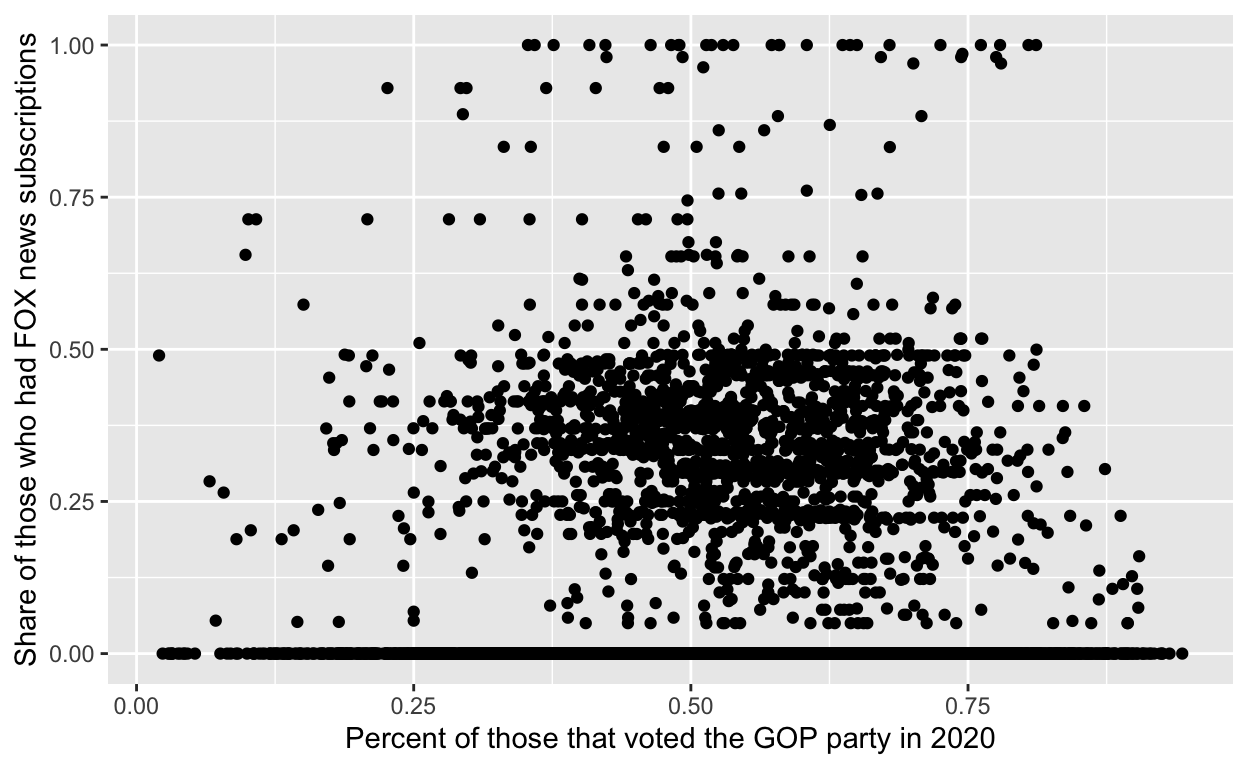
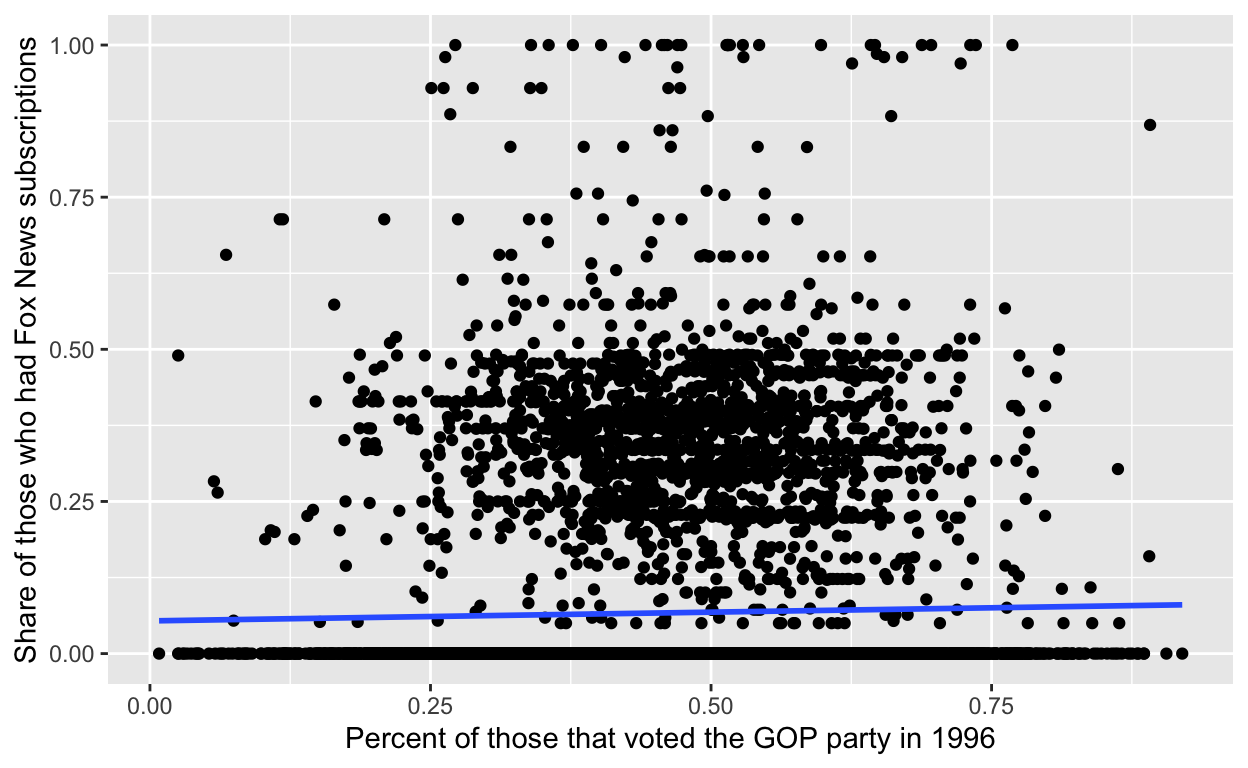
dfghjk

diff --git a/index.html b/index.html
@@ -1543,33 +1543,39 @@ code span.wa { color: #5e5e5e; font-style: italic; } /* Warning */
 </div>
 
 <div class="d-article">
-<h2 id="project-thoughts">Project thoughts</h2>
-<p>I am interested in exploring data related to how media coverage of the election changes the behavior of electorates.</p>
-<p>Have you ever wondered how national news coverage affects elections? I plan to examine how media coverage affects the electorate’s behavior in this study. I hypothesize that national news media coverage will likely substantially influence the electorate’s behavior. I affirm this because most citizens believe everything they get from news sources, and by believing the information, they are adopting the same political beliefs as the news source, ultimately shifting the election outcome. News sources can also push the political agenda by telling one side of a story, which electorates sympathize with and conform to the propaganda the sources are trying to push. However, this acutely insinuates that all news sources are bad, which is incredibly untrue. It can shine a light on candidates’ ideals or actions, changing how electorates view the candidate they support. The explanatory variable is whether the town got Fox News; which is under the column of subrf 2000. and the gopvoteshare columns are those who voted for the Republican political party. The data supports my hypothesis that media coverage affects the electorate’s behavior because it is seen through the data that a town that had Fox News subscribers has shifted towards the Republican party as elections went on. After all, the percentage of the town voting right-wing grew or increased. Subsequently, this affirms that the media affects the behavior of the electorate.</p>
+<h2 id="introduction">Introduction</h2>
+<p>I am interested in exploring data related to how media coverage of elections changes the behavior of electorates. The behavior which I will track if due to media coverage, will electorates shift to a more right or lefist voting pattern.</p>
+<p>Have you ever wondered how national news coverage affects elections? I plan to examine how media coverage affects the electorate’s behavior in this study. I hypothesize that national news media coverage will likely substantially influence the electorate’s behavior. I affirm this because most citizens believe everything they get from news sources, and by believing the information, they are adopting the same political beliefs as the news source, ultimately shifting the election’s outcome. News sources can also push the political agenda by telling one side of a story, which electorates sympathize with and conform to the propaganda the sources are trying to push. However, this acutely insinuates that all news sources are bad, which is incredibly untrue. It can shine a light on candidates’ ideals or actions, changing how electorates view the candidate they support.</p>
+<p>Due to this, Fox News have the power and resources to test if electorates’ views change due to media coverage. This News channel is know to be more on the conservative side and report conservative biased media.</p>
+<p>The explanatory variable is whether the town got Fox News; which is under the column of subrf 2000. and the gopvoteshare columns are those who voted for the Republican political party. The data supports my hypothesis that media coverage affects the electorate’s behavior because it is seen through the data that a town that had Fox News subscribers has shifted towards the Republican party as elections went on. After all, the percentage of the town voting right-wing grew or increased. Subsequently, this affirms that the media affects the behavior of the electorate because a connection can be easily made that the news connection affected their ideals and made electorates shift towards a more conservative mindset.</p>
+<h2 id="data-research-design-and-dependent-variable">Data, Research Design, and Dependent Variable</h2>
 <div class="layout-chunk" data-layout="l-body">
-<div class="sourceCode">
-<pre class="sourceCode r"><code class="sourceCode r"><span><span class='kw'><a href='https://rdrr.io/r/base/library.html'>library</a></span><span class='op'>(</span><span class='va'><a href='https://tidyverse.tidyverse.org'>tidyverse</a></span><span class='op'>)</span></span>
-<span><span class='kw'><a href='https://rdrr.io/r/base/library.html'>library</a></span><span class='op'>(</span><span class='va'><a href='https://readr.tidyverse.org'>readr</a></span><span class='op'>)</span></span>
-<span><span class='va'>fox_news</span> <span class='op'>&lt;-</span> <span class='fu'><a href='https://readr.tidyverse.org/reference/read_delim.html'>read_csv</a></span><span class='op'>(</span><span class='st'>"foxnews.csv"</span><span class='op'>)</span></span>
-<span></span>
-<span><span class='va'>foxnews_plot</span> <span class='op'>&lt;-</span> <span class='va'>fox_news</span> <span class='op'>|&gt;</span></span>
-<span>  </span>
-<span>  <span class='fu'><a href='https://ggplot2.tidyverse.org/reference/ggplot.html'>ggplot</a></span><span class='op'>(</span>data <span class='op'>=</span> <span class='va'>fox_news</span>, mapping <span class='op'>=</span> <span class='fu'><a href='https://ggplot2.tidyverse.org/reference/aes.html'>aes</a></span><span class='op'>(</span>x <span class='op'>=</span> <span class='va'>gopvoteshare2000</span>, y <span class='op'>=</span> <span class='va'>subrf2000</span>,<span class='op'>)</span><span class='op'>)</span> <span class='op'>+</span> <span class='fu'><a href='https://ggplot2.tidyverse.org/reference/geom_point.html'>geom_point</a></span><span class='op'>(</span>position <span class='op'>=</span> <span class='st'>"dodge"</span><span class='op'>)</span> <span class='op'>+</span> <span class='fu'><a href='https://ggplot2.tidyverse.org/reference/labs.html'>labs</a></span><span class='op'>(</span>x <span class='op'>=</span> <span class='st'>"Percent of those that voted the GOP party in 2020"</span>, y <span class='op'>=</span> <span class='st'>"Share of those who had FOX news subscriptions"</span><span class='op'>)</span></span>
-<span><span class='va'>foxnews_plot</span></span></code></pre>
-</div>
 <p><img src="index_files/figure-html5/unnamed-chunk-1-1.png" width="624" /></p>
 </div>
-<p>– make an ayasis of the graph</p>
+<p>In scatter plot in particular, is one of the first data recorded by Fox News. Fox News, entered the media market around the late 1990s. On the information for the data set, it just uses the broad term of the late 1990s. However, with a quick Google search, I was able to find out that Fox News entered the media market around 1996. Due to this, this visualization is one of the first data sets. Looking at the scatter plot, each point represents a town which data was taken. When there is a percentage of 25%-50% of the share of the population has Fox News is seen that the concentration of the points is here. And when this is, 50% of the population share votes for the GOP party. Since Fox News was just introduced there isn’t much of a change because of the media coverage. However, there is an impact seen. This is because is also seen that as the percentage of population share that has Fox News increases, the percentage that votes the GOP party increases. I used a basic code, geom_smooth which shows that the line has a slow increase, thus, it shows in that in the early impact.</p>
 <div class="layout-chunk" data-layout="l-body">
-<div class="sourceCode">
-<pre class="sourceCode r"><code class="sourceCode r"><span><span class='va'>fox_news_plot_2</span> <span class='op'>&lt;-</span> <span class='va'>fox_news</span> <span class='op'>|&gt;</span></span>
-<span>  <span class='fu'><a href='https://ggplot2.tidyverse.org/reference/ggplot.html'>ggplot</a></span><span class='op'>(</span>data <span class='op'>=</span> <span class='va'>fox_news</span>, mapping <span class='op'>=</span> <span class='fu'><a href='https://ggplot2.tidyverse.org/reference/aes.html'>aes</a></span><span class='op'>(</span>x <span class='op'>=</span> <span class='va'>gopvoteshare1996</span>, y <span class='op'>=</span> <span class='va'>subrf2000</span>,<span class='op'>)</span><span class='op'>)</span> <span class='op'>+</span> <span class='fu'><a href='https://ggplot2.tidyverse.org/reference/geom_point.html'>geom_point</a></span><span class='op'>(</span>position <span class='op'>=</span> <span class='st'>"dodge"</span><span class='op'>)</span> <span class='op'>+</span> <span class='fu'><a href='https://ggplot2.tidyverse.org/reference/labs.html'>labs</a></span><span class='op'>(</span>x <span class='op'>=</span> <span class='st'>"Percent of those that voted the GOP party in 2020"</span>, y <span class='op'>=</span> <span class='st'>"Share of those who had FOX news subscriptions"</span><span class='op'>)</span></span>
-<span><span class='va'>fox_news_plot_2</span></span></code></pre>
-</div>
 <p><img src="index_files/figure-html5/unnamed-chunk-2-1.png" width="624" /></p>
 </div>
-<p>From the scatter plot it is seen that with fox news the percentage that voted gop increased.
-j</p>
+looking at this graph that has the gop voting percentage from the year 2000, there is a stark resemblance from the year of 1996 with a progressive shift The change is that the concentration of the points has shifted left meaning that a larger percentage of the population is voting GOP. This elections is four years after Fox News was introduced meaning that it is an established news source, thus, it is quite probable that there was an impact on electorates’ decisions assuming no influential event happened.
+<div class="layout-chunk" data-layout="l-body">
+<table>
+<thead>
+<tr class="header">
+<th style="text-align: right;">gopvotes1996mean</th>
+<th style="text-align: right;">gopvotes2000mean</th>
+<th style="text-align: right;">ATE</th>
+</tr>
+</thead>
+<tbody>
+<tr class="odd">
+<td style="text-align: right;">0.47</td>
+<td style="text-align: right;">0.54</td>
+<td style="text-align: right;">0.07</td>
+</tr>
+</tbody>
+</table>
+</div>
+<p>Through this table, it is more clearlier seen</p>
 <div class="sourceCode" id="cb1"><pre class="sourceCode r distill-force-highlighting-css"><code class="sourceCode r"></code></pre></div>
 <!--radix_placeholder_article_footer-->
 <!--/radix_placeholder_article_footer-->
